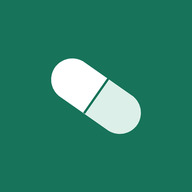
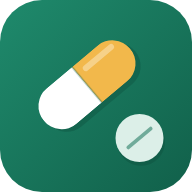
Nuevo ícono de la app y ícono junto al título
Claude-Session: https://claude.ai/code/session_016EkRt1LoutgeHRZP7sD1SC

diff --git a/index.html b/index.html
@@ -5,8 +5,9 @@
 <meta name="viewport" content="width=device-width, initial-scale=1, viewport-fit=cover">
 <meta name="theme-color" content="#17735a">
 <link rel="manifest" href="manifest.webmanifest">
-<link rel="icon" href="icon-192.png">
-<link rel="apple-touch-icon" href="icon-192.png">
+<link rel="icon" href="icon.svg" type="image/svg+xml">
+<link rel="icon" href="icon-192.png" sizes="192x192">
+<link rel="apple-touch-icon" href="apple-touch-icon.png">
 <title>Dosis</title>
 <link rel="preconnect" href="https://fonts.googleapis.com">
 <link rel="stylesheet" href="https://fonts.googleapis.com/css2?family=Atkinson+Hyperlegible:wght@400;700&family=Atkinson+Hyperlegible+Mono:wght@400;600&family=Bricolage+Grotesque:opsz,wght@12..96,600;12..96,800&display=swap">
@@ -56,6 +57,8 @@ h3 { font-size: 1.05rem; font-weight: 600; }
 .small { font-size: .875rem; }
 .label { font-size: .75rem; text-transform: uppercase; letter-spacing: .08em; color: var(--muted); font-weight: 700; }
 
+h1.brand { display: flex; align-items: center; gap: 10px; }
+h1.brand img { width: 40px; height: 40px; border-radius: 10px; flex: none; }
 header.top { display: flex; align-items: flex-end; justify-content: space-between; gap: 12px; flex-wrap: wrap; }
 .today { font-size: .95rem; color: var(--muted); }
 
@@ -141,7 +144,7 @@ textarea { min-height: 70px; resize: vertical; }
 <div class="wrap">
   <header class="top">
     <div>
-      <h1>Dosis</h1>
+      <h1 class="brand"><img src="icon.svg" alt="" width="40" height="40">Dosis</h1>
       <div class="today" id="todayLabel"></div>
     </div>
     <div class="summary" id="summary"></div>

diff --git a/sw.js b/sw.js
@@ -1,5 +1,5 @@
-const CACHE = "dosis-v1";
-const SHELL = ["./", "index.html", "manifest.webmanifest", "icon-192.png", "icon-512.png"];
+const CACHE = "dosis-v2";
+const SHELL = ["./", "index.html", "manifest.webmanifest", "icon-192.png", "icon-512.png", "icon.svg"];
 self.addEventListener("install", e => { e.waitUntil(caches.open(CACHE).then(c => c.addAll(SHELL))); self.skipWaiting(); });
 self.addEventListener("activate", e => { e.waitUntil(caches.keys().then(ks => Promise.all(ks.filter(k => k !== CACHE).map(k => caches.delete(k))))); self.clients.claim(); });
 // Red primero para la app (así llegan las actualizaciones), caché si no hay conexión. Fuentes: caché primero.
